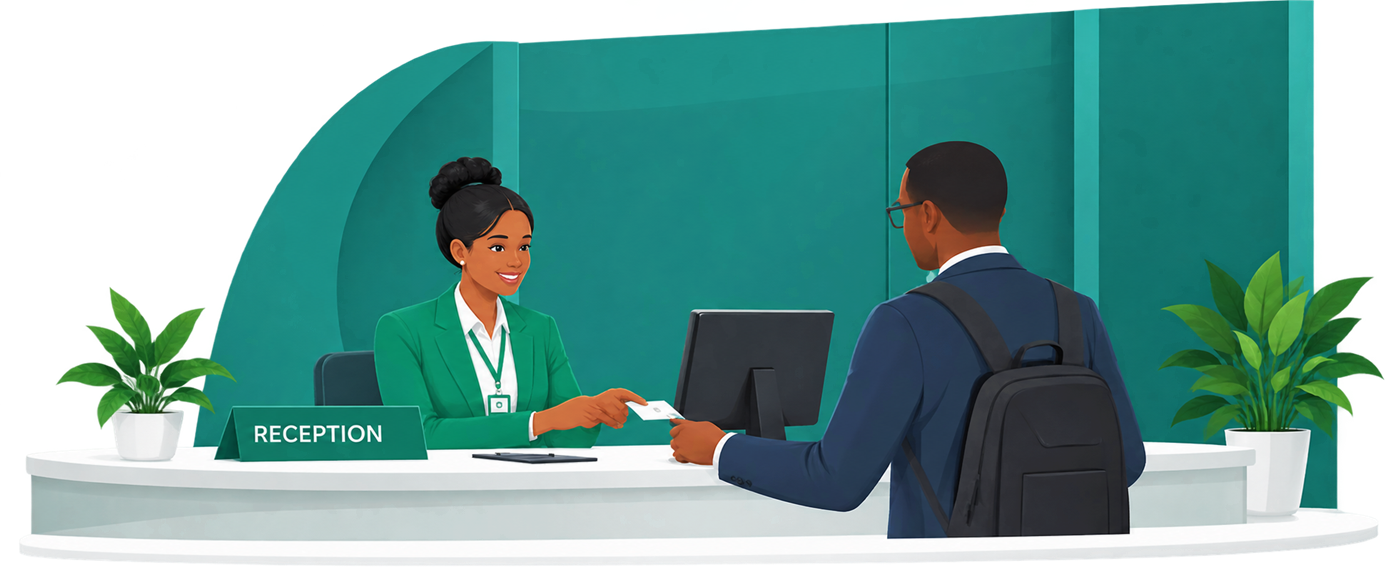
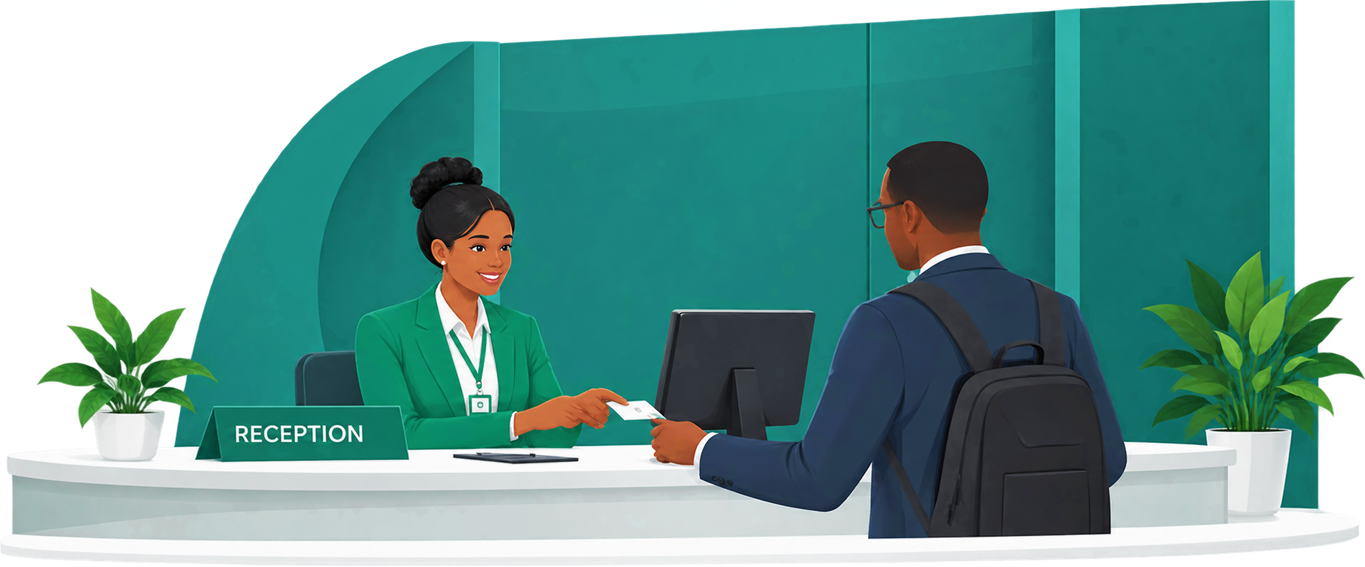
feat: redesign dashboard hero with cutout illustration and theme-aware scene
Replace the hero photo with a transparent cutout set on code-drawn
shapes (arch, glass panels, pillar, floor shadow) that adapt to light
and dark mode, give the dark banner a continuous deep-teal background,
pin the illustration to the banner's right and bottom edges, show it
below the text on small screens, and label the sidebar dashboard link
"Dashboard" for all roles.

Changed region(s): [[0.0, 0.0, 1.0, 0.9894], [0.2462, 0.1199, 0.3077, 0.2399], [0.5231, 0.6296, 0.5538, 0.6596]]

diff --git a/src/pages/StaffHomePage.jsx b/src/pages/StaffHomePage.jsx
@@ -1022,9 +1022,9 @@ export default function StaffHomePage() {
 
         <div
           aria-hidden="true"
-          className="pointer-events-none relative mx-4 mb-4 aspect-[1400/620] sm:mx-8 sm:mb-6 lg:absolute lg:inset-y-0 lg:right-0 lg:m-0 lg:aspect-auto lg:w-[56%]"
+          className="pointer-events-none relative aspect-[1365/620] lg:absolute lg:inset-y-0 lg:right-0 lg:m-0 lg:aspect-auto lg:w-[56%]"
         >
-          <div className="absolute inset-0 overflow-hidden rounded-2xl lg:rounded-none lg:[mask-image:linear-gradient(to_right,transparent,#000_22%)]">
+          <div className="absolute inset-0 overflow-hidden lg:[mask-image:linear-gradient(to_right,transparent,#000_22%)]">
             <span className="absolute left-[12%] top-[7%] h-[150%] w-[64%] rounded-t-full bg-[#bdece3b3] dark:bg-[#0f4c47b3]" />
 
             {["left-[40%]", "left-[52%]", "left-[64%]"].map(
@@ -1036,14 +1036,14 @@ export default function StaffHomePage() {
               ),
             )}
 
-            <span className="absolute inset-y-0 right-[4%] w-[12%] bg-linear-to-b from-[#0f766e] to-[#115e59] dark:from-[#0d9488] dark:to-[#0f766e]" />
+            <span className="absolute inset-y-0 right-0 w-[12%] bg-linear-to-b from-[#0f766e] to-[#115e59] dark:from-[#0d9488] dark:to-[#0f766e]" />
 
             <span className="absolute inset-x-[4%] bottom-[1%] h-[16%] rounded-[50%] bg-[#134e4a33] blur-2xl dark:bg-[#00000066]" />
           </div>
 
           <img
             alt=""
-            className="absolute inset-x-0 bottom-0 w-full [mask-image:linear-gradient(to_bottom,transparent_0%,#000_10%)] lg:left-auto lg:right-[3%] lg:h-[94%] lg:w-[94%] lg:object-contain lg:object-[100%_100%]"
+            className="absolute inset-x-0 bottom-0 w-full [mask-image:linear-gradient(to_bottom,transparent_0%,#000_10%)] lg:left-auto lg:right-0 lg:h-[94%] lg:w-full lg:object-contain lg:object-[100%_100%]"
             src={heroIllustration}
           />
         </div>
